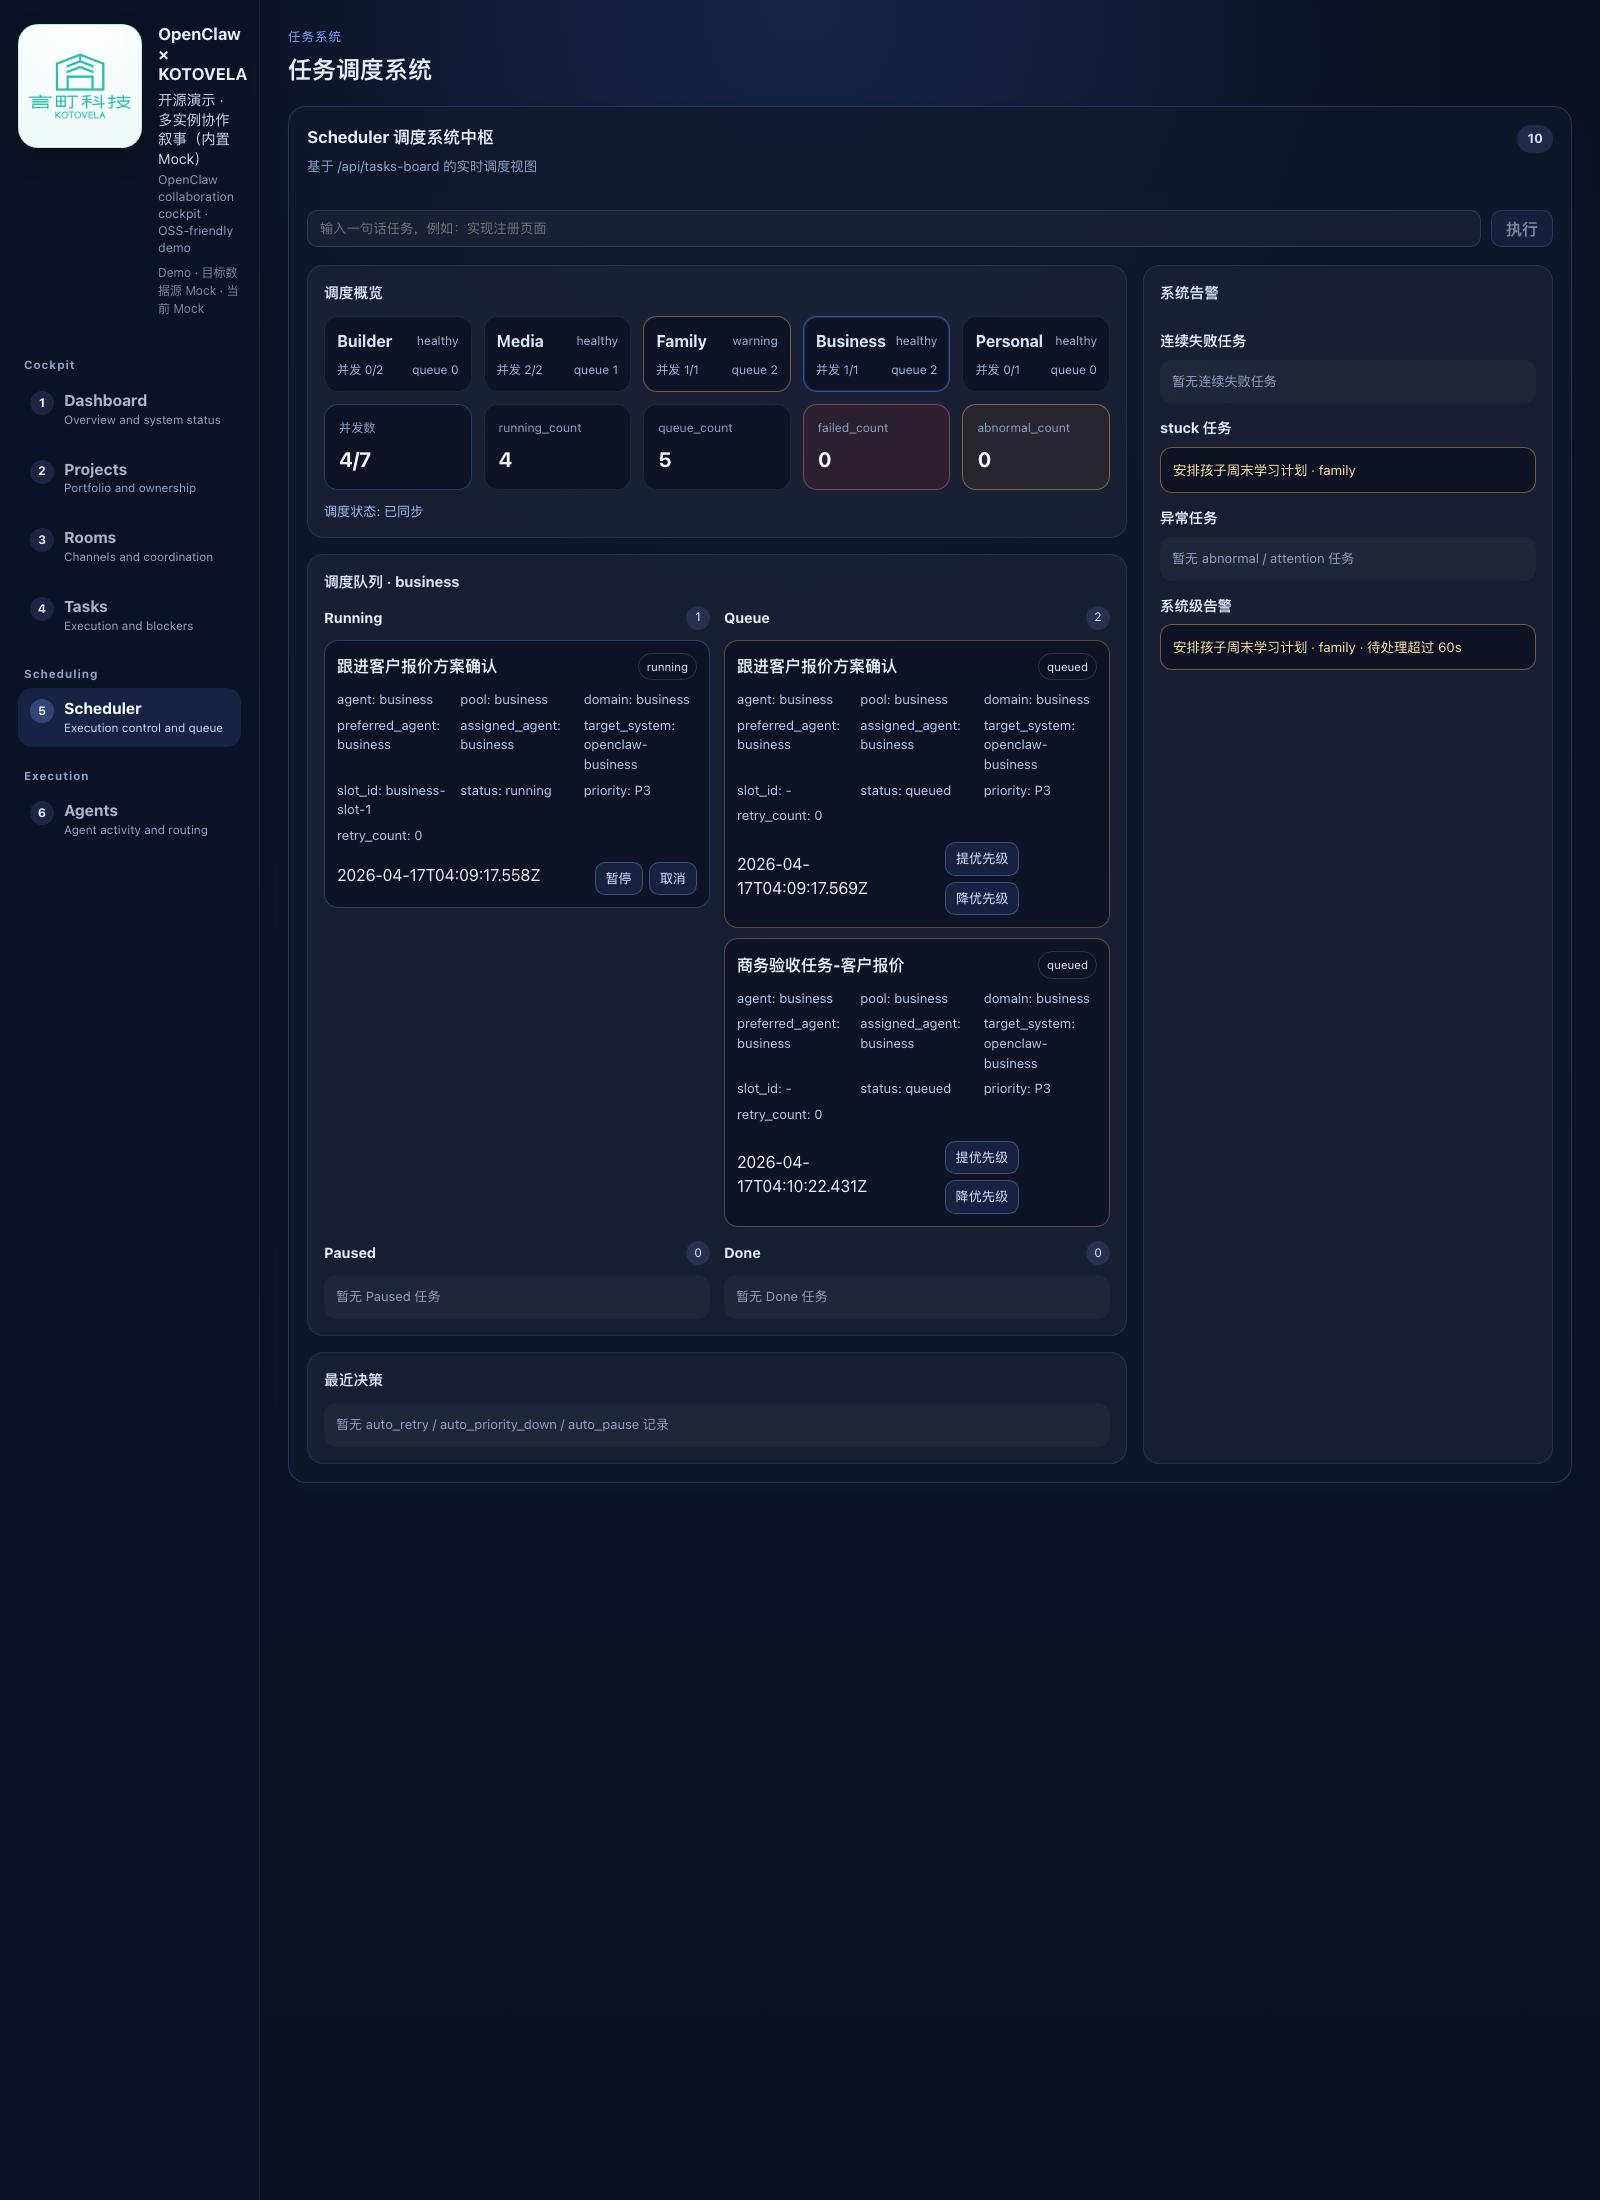
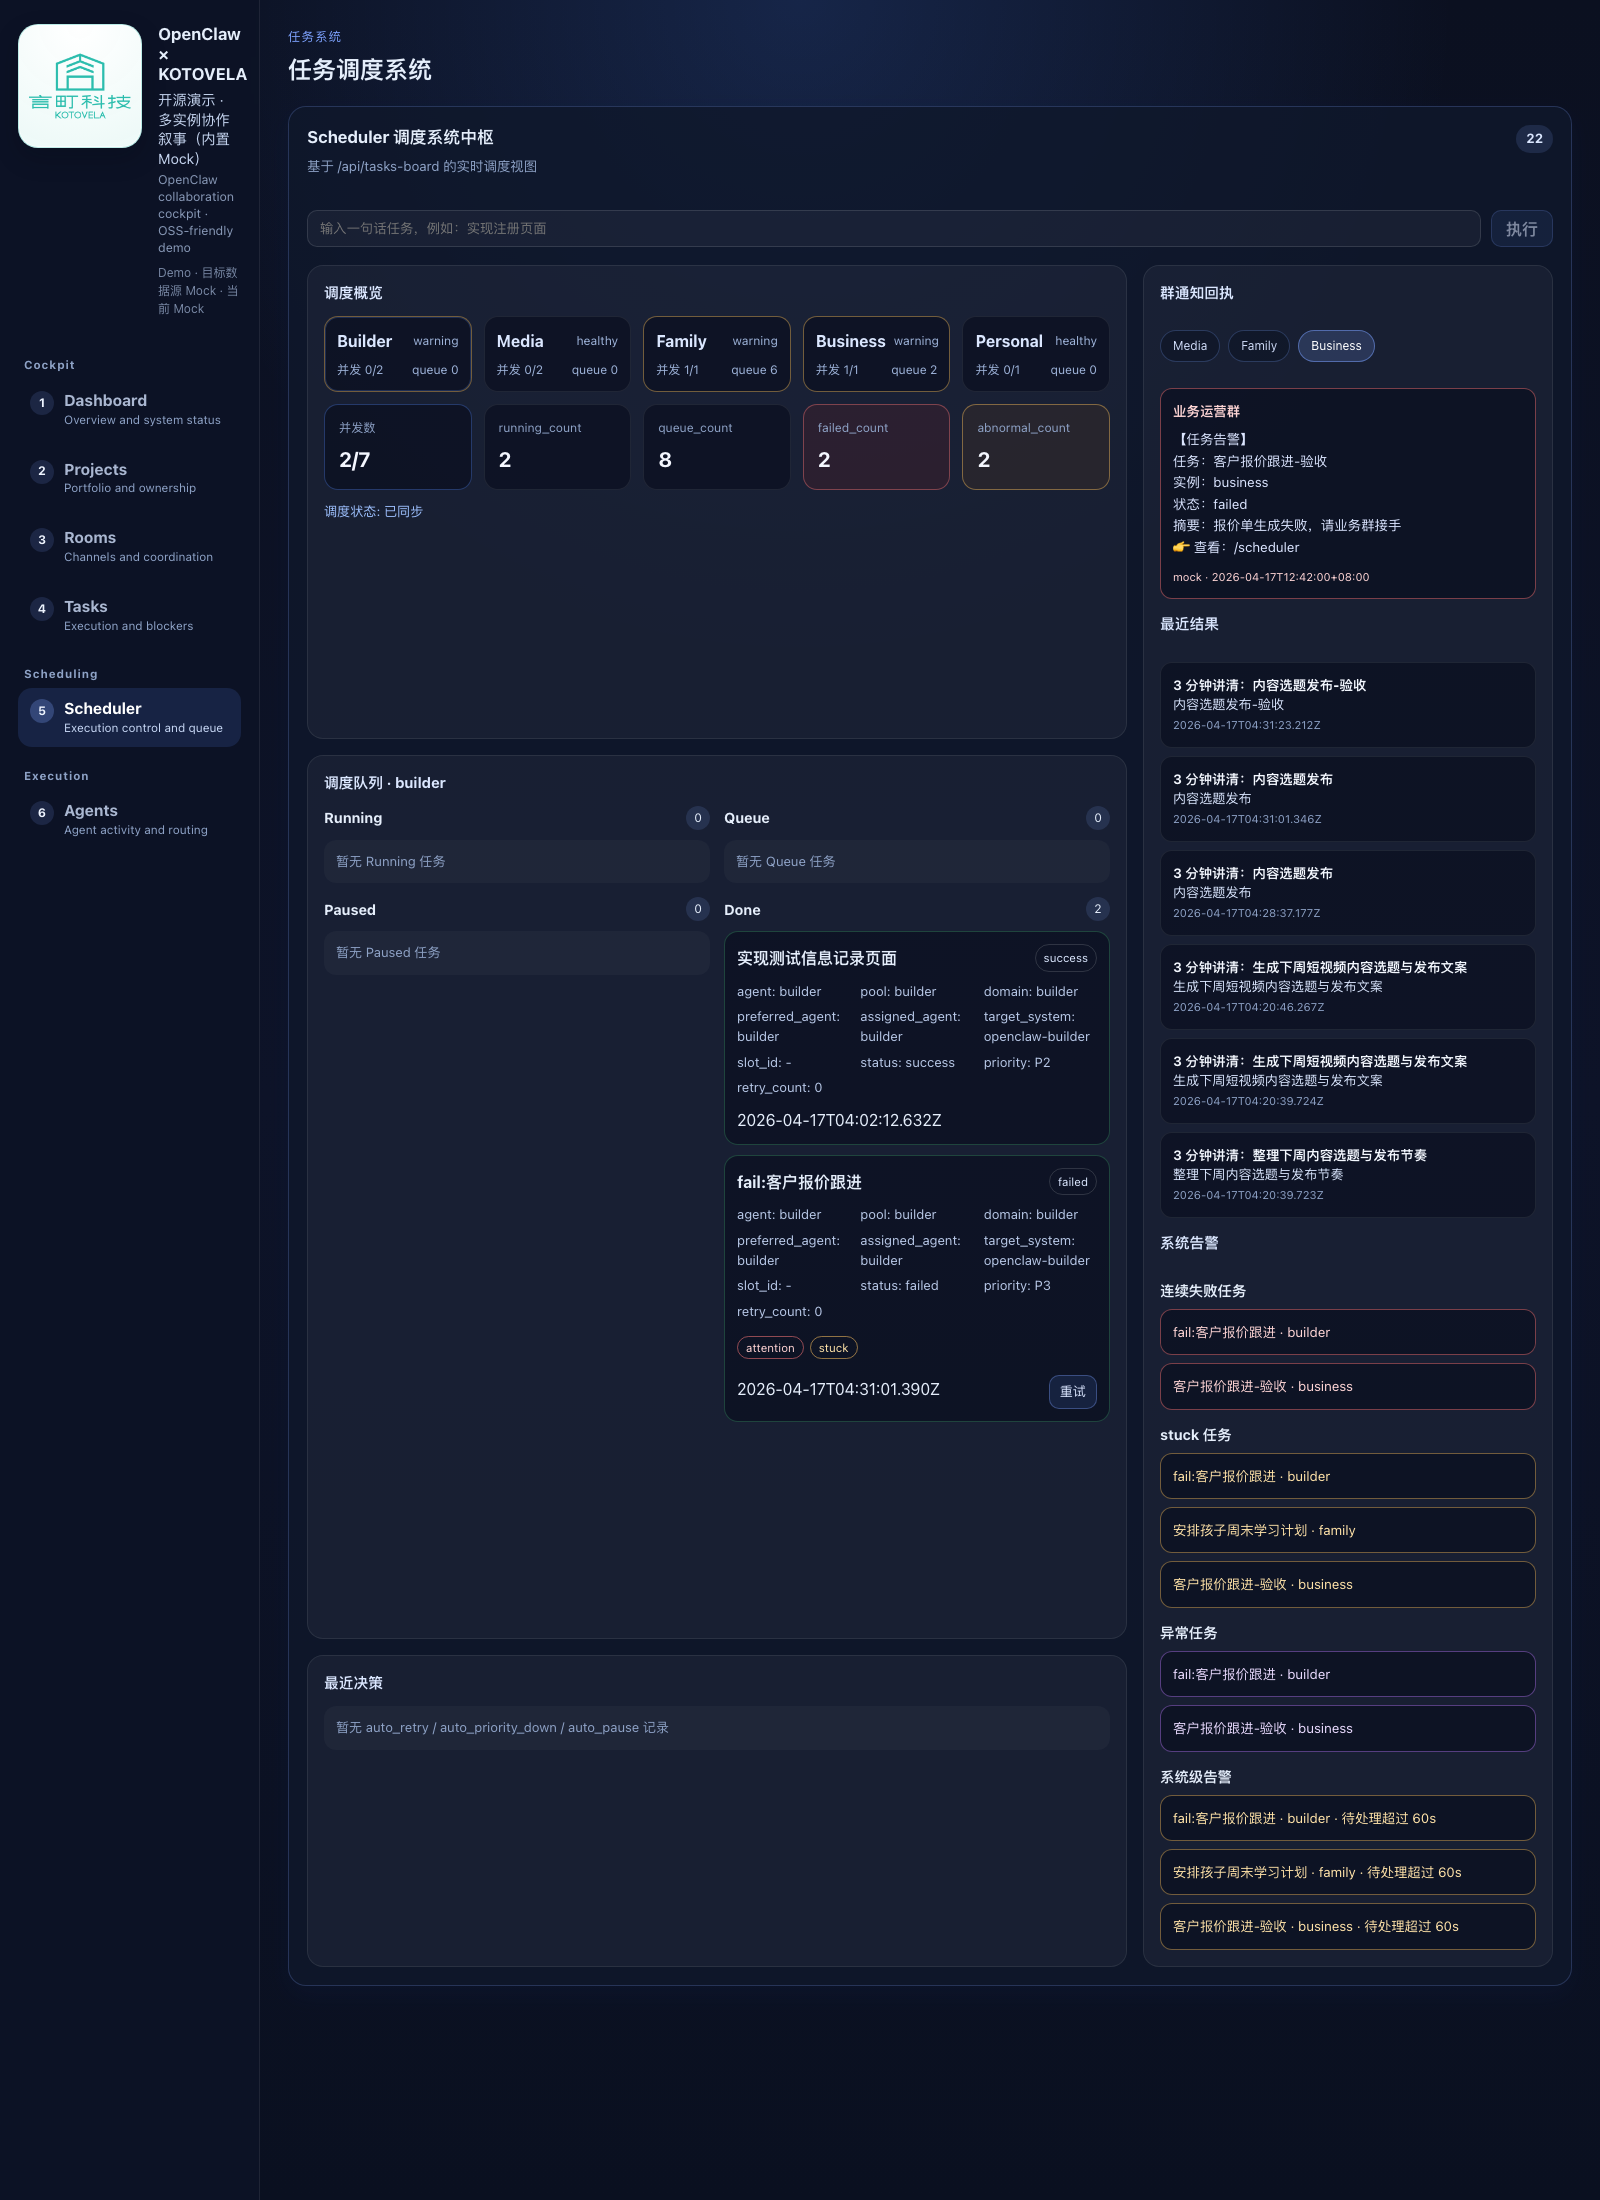
feat: add scheduler group notification mock flow

diff --git a/vite.config.ts b/vite.config.ts
@@ -480,7 +480,14 @@ function resolveNotifyTarget(domain?: string) {
 }
 
 function buildNotificationSummary(item: TaskBoardItem, eventType: TaskNotifyEvent) {
-  if (eventType === 'task_done') return item.result?.title || '任务已完成'
+  if (eventType === 'task_done') {
+    if (item.domain === 'media' && item.result) {
+      const hookLines = item.result.hook.split(/[。！？!?\n]/).filter(Boolean).slice(0, 2).join(' / ')
+      const publishShort = item.result.publish_text.split('\n').filter(Boolean).slice(0, 2).join(' ')
+      return `${item.result.title}｜${hookLines}｜${publishShort}`
+    }
+    return item.task_name
+  }
   if (eventType === 'task_failed') return [...(item.history ?? [])].reverse().find((entry) => entry.error)?.error || '任务执行失败'
   if (eventType === 'task_warning') {
     if (item.stuck) return '任务待处理超过 60s'
@@ -531,15 +538,7 @@ async function deliverTaskNotification(record: TaskNotificationRecord) {
     body: JSON.stringify({
       msg_type: 'text',
       content: {
-        text: [
-          `事件类型：${record.event_type}`,
-          `task_name：${record.task_name}`,
-          `domain：${record.domain}`,
-          `assigned_agent：${record.assigned_agent}`,
-          `status：${record.status}`,
-          `摘要：${record.summary}`,
-          `查看 Scheduler：${record.scheduler_hint}`,
-        ].join('\n'),
+        text: record.message,
       },
     }),
   })
@@ -556,6 +555,21 @@ async function emitTaskNotifications(previousPayload: TaskBoardPayload | null, n
     const eventType = inferTaskNotifyEvent(item, previousByName.get(item.task_name))
     if (!eventType) continue
     const target = resolveNotifyTarget(item.domain)
+    const summary = buildNotificationSummary(item, eventType)
+    const messageLines = [
+      eventType === 'task_warning' ? '【任务告警】' : '【任务完成】',
+      `任务：${item.task_name}`,
+      `实例：${item.assigned_agent ?? item.agent ?? 'builder'}`,
+      `状态：${eventType === 'task_warning' ? '告警' : item.status ?? '-'}`,
+      `摘要：${summary}`,
+      '👉 查看：/scheduler',
+    ]
+    if (normalizeNotifyDomain(item.domain) === 'media' && item.result) {
+      const hookLines = item.result.hook.split(/[。！？!?\n]/).filter(Boolean).slice(0, 2)
+      messageLines.splice(1, 0, `标题：${item.result.title}`)
+      messageLines.splice(5, 0, `Hook：${hookLines.join('。')}${hookLines.length ? '。' : ''}`)
+      messageLines.splice(6, 0, `发布文案：${item.result.publish_text.split('\n').filter(Boolean).slice(0, 2).join(' ')}`)
+    }
     const draft: TaskNotificationRecord = {
       id: `${new Date().toISOString()}-${item.task_name}-${eventType}`,
       event_type: eventType,
@@ -563,12 +577,13 @@ async function emitTaskNotifications(previousPayload: TaskBoardPayload | null, n
       domain: normalizeNotifyDomain(item.domain),
       assigned_agent: item.assigned_agent ?? item.agent ?? 'builder',
       status: item.status ?? '-',
-      summary: buildNotificationSummary(item, eventType),
+      summary,
       target_group: target.group,
       target_channel: target.channel,
       scheduler_hint: '打开 KOTOVELA /scheduler 查看详情',
       created_at: new Date().toISOString(),
       delivery: 'mock',
+      message: messageLines.join('\n'),
     }
     nextRecords.push(await deliverTaskNotification(draft))
   }

diff --git a/src/index.css b/src/index.css
@@ -1660,6 +1660,36 @@ button,
   color: #eadbff;
 }
 
+.scheduler-notice-tabs {
+  display: flex;
+  gap: 8px;
+  margin-bottom: 12px;
+}
+
+.scheduler-notice-tab {
+  border: 1px solid rgba(122, 162, 255, 0.25);
+  background: rgba(14, 22, 38, 0.78);
+  color: #cdd9f5;
+  border-radius: 999px;
+  padding: 6px 12px;
+  font-size: 12px;
+  cursor: pointer;
+}
+
+.scheduler-notice-tab.is-active {
+  background: rgba(122, 162, 255, 0.18);
+  border-color: rgba(122, 162, 255, 0.5);
+  color: #ffffff;
+}
+
+.scheduler-notice-card pre {
+  margin: 8px 0;
+  white-space: pre-wrap;
+  font-family: inherit;
+  line-height: 1.6;
+  color: #dbe5ff;
+}
+
 .scheduler-decision-item p,
 .scheduler-decision-item small {
   margin: 0;
